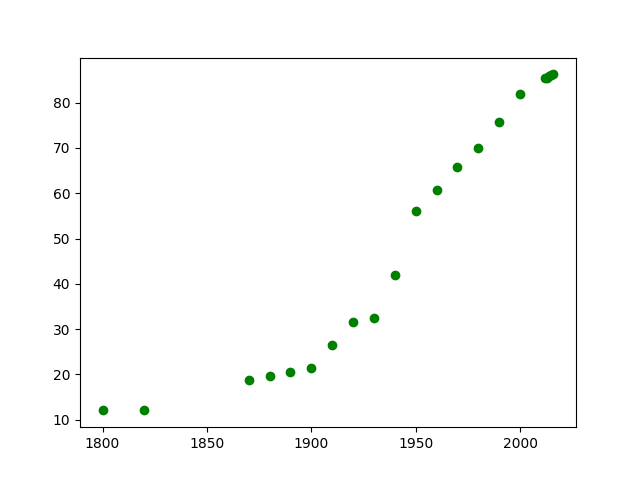
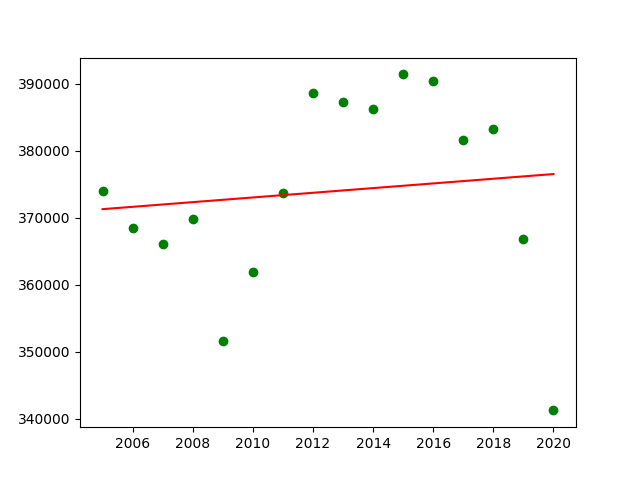
Se ha implementado completamente la regresión lineal

diff --git a/pages/Regresion_Lineal.py b/pages/Regresion_Lineal.py
@@ -11,13 +11,14 @@ from PIL import Image
 ### Definimos las funciones que utilizaremos
 
 ## Función que nos sirve para llevar a cabo las operaciones
-def operar_datos(data, parametro_x, parametro_y):
+def operar_datos(data, parametro_x, parametro_y, entrada_prediccion):
     # Obtenemos los parametros de x, y
     x = np.asarray(data[parametro_x]).reshape(-1,1)
     y = data[parametro_y]
 
     regr = linear_model.LinearRegression()
     regr.fit(x,y)
+    y_pred = regr.predict(x)
 
     # Agregamos la gráfica de puntos 
     with st.expander('Gráfica de Puntos:'):
@@ -25,6 +26,7 @@ def operar_datos(data, parametro_x, parametro_y):
         st.text('X: ' + parametro_x)
         st.text('Y: ' + parametro_y)
         plt.scatter(x, y, color='green')
+        plt.plot(x, y_pred, color='red')
         plt.savefig('puntos.png')
         plt.close()
         
@@ -34,10 +36,20 @@ def operar_datos(data, parametro_x, parametro_y):
     # Agregamos la funcionalidad de definir función de tendencia
     with st.expander('Función de Tendencia:'):
         st.text('Función de tendencia: ')
+        # Obtenemos dos puntos
+        # y2, y1, m
+        y1 = regr.predict([[0]])
+        y2 = regr.predict([[5]])
+
+        m = (y2 - y1)/(5-0)
+        st.text('Pendiente: ' + str(m).replace('[','').replace(']',''))
+        st.latex('Ecuación: ' + str(m).replace('[','').replace(']','') + 'x' + ' + (' + str(y1).replace('[','').replace(']','') +')')
 
     # Agregamos la funcionalidad de predicción de la tendencia
-    with st.expander('Predicción de Tendencia:'):
-        st.text('Predicción de Tendencia')
+    if entrada_prediccion:
+        with st.expander('Predicción de Tendencia:'):
+            prediccion = regr.predict([[entrada_prediccion]])
+            st.text('La predicción a ' + str(entrada_prediccion) + ' (unidades de tiempo) es: ' + str(prediccion))
 
 
 ##Funcion que obtiene el csv e identifica la coleccion de datos a utilizar
@@ -77,13 +89,18 @@ def procesar_datos():
         with col_2:
             param_y = st.selectbox('Parametro Y:', data.columns)
         
+        check_predict = st.checkbox('¿Desea Realizar una Predicción?')
+        entrada_prediccion = 0
+        if check_predict:
+            entrada_prediccion = st.number_input('Ingresa las unidades de tiempo que se usarán para la predicción:')    
+
         btn_procesar = st.button('Procesar Datos')
         
         with st.expander('Tabla de Datos'):
             st.write(data)
         
         if btn_procesar:
-            operar_datos(data, param_x, param_y)
+            operar_datos(data, param_x, param_y, entrada_prediccion)
 
 
 
